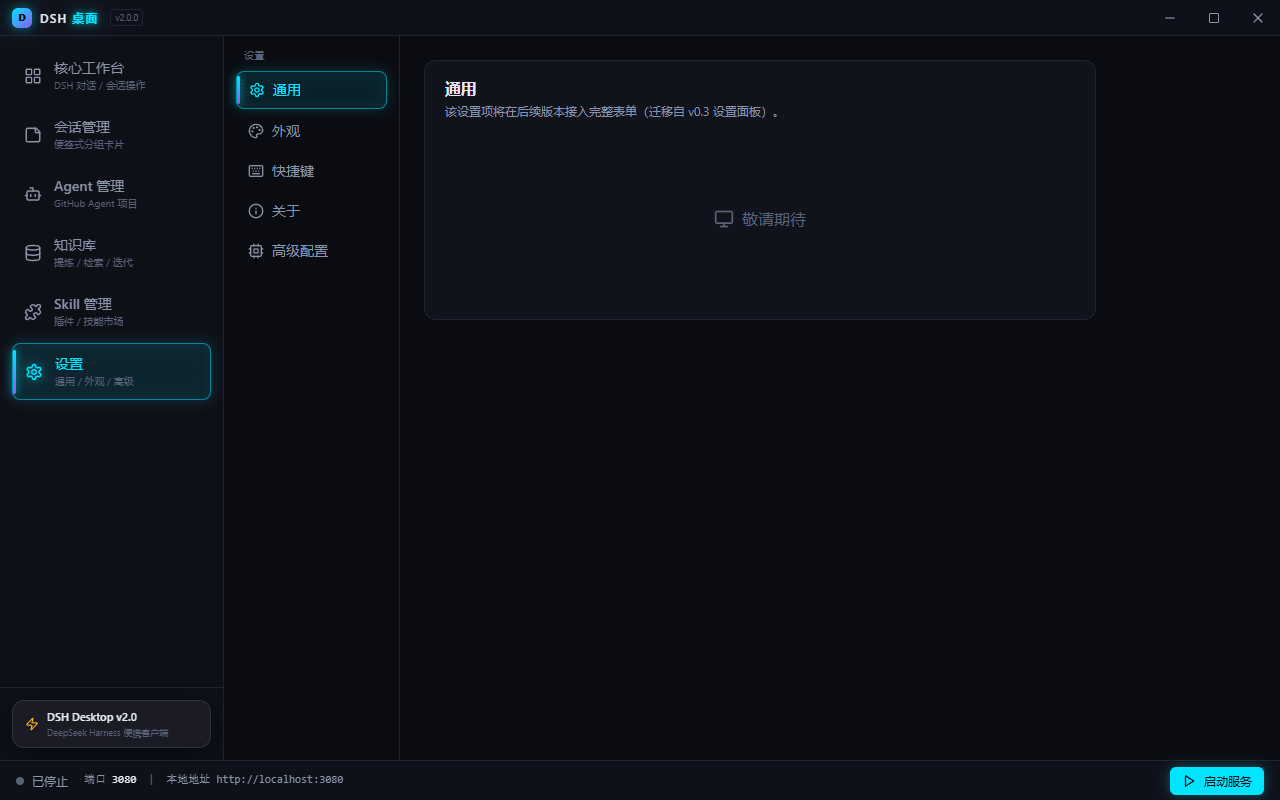
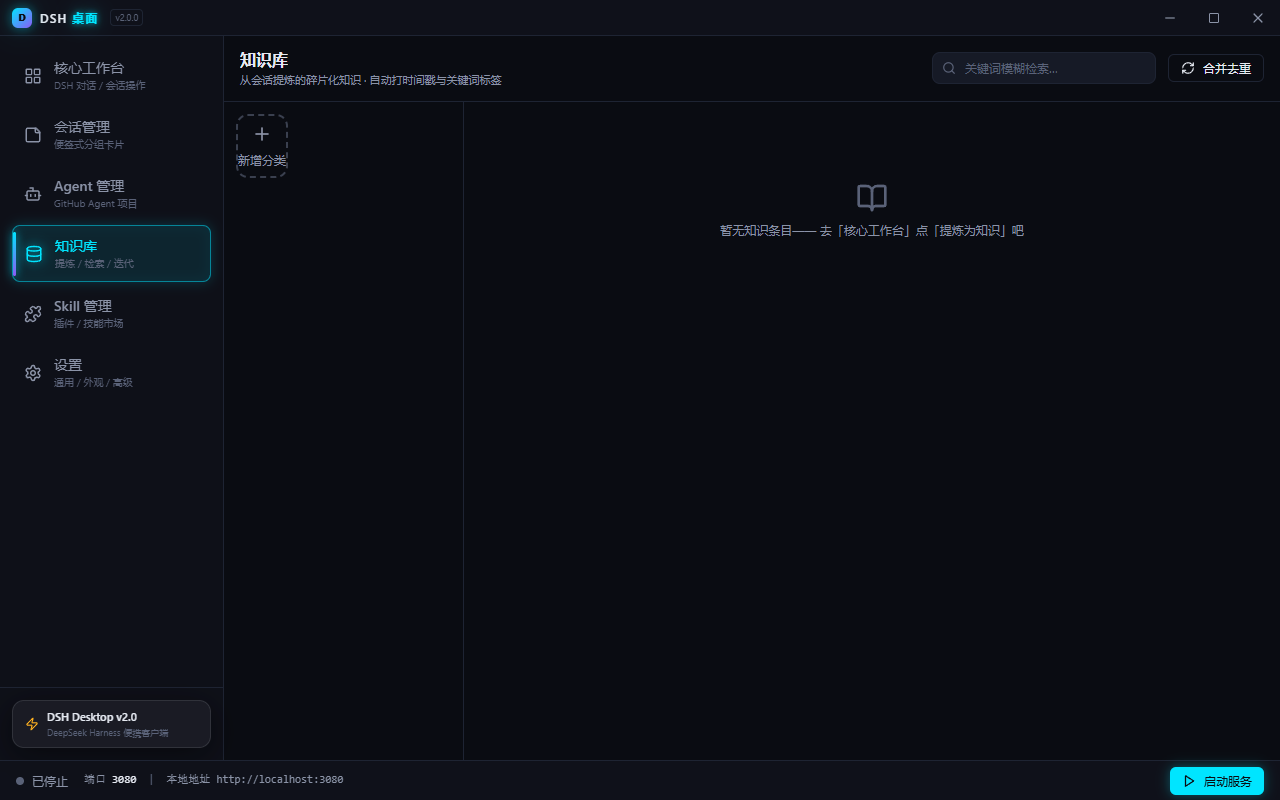
v2.0.0 release: packaged green build verified, README/CHANGELOG updated with screenshots
- 打包验证通过：pack:dir 构建 v2.0 绿色版（app/DSH 桌面.exe 215MB）+ CDP 实测布局/服务/webview/各模块 + 7 张真实截图
- README 全面重写为 v2.0（React 赛博朋克 UI + 6 大模块 + 新截图 + 下载指引）
- CHANGELOG 新增 2.0.0 条目（重构/新增/修复/质量）
- flatten-build.mjs 支持全新 app 目录平铺
- 生成 DSH-Desktop-v2.0.0-win.zip（138MB）
- typecheck 全绿，189 测试通过

diff --git a/README.md b/README.md
@@ -1,25 +1,25 @@
 <div align="center">
 
-# 🚀 DSH 桌面
+# 🚀 DSH 桌面 v2.0
 
 **把 DeepSeek Harness 装进一个文件夹 —— 双击即用 · 拷贝即迁移 · 零安装、零残留**
 
-> DeepSeek Harness（`@deepseek-ai/dsh`）的便携式 Windows 桌面客户端，
-> 全中文界面，无需一行命令，打开就能聊。
+> DeepSeek Harness（`@deepseek-ai/dsh`）的便携式 Windows 桌面客户端
+> React + 赛博朋克 UI · 全中文界面 · 无需一行命令
 
-[![版本](https://img.shields.io/badge/版本-v0.3.0-1E2A78)](https://github.com/gyg9006/DSH-Desktop/releases)
+[![版本](https://img.shields.io/badge/版本-v2.0.0-1E2A78)](https://github.com/gyg9006/DSH-Desktop/releases)
 [![平台](https://img.shields.io/badge/平台-Windows%2010%2F11-lightgrey)]()
-[![Electron](https://img.shields.io/badge/Electron-43.4-47848F)]()
-[![Vue](https://img.shields.io/badge/Vue-3.5-42b883)]()
+[![React](https://img.shields.io/badge/React-19-61DAFB)]()
 [![TypeScript](https://img.shields.io/badge/TypeScript-5.9-3178c6)]()
-[![测试](https://img.shields.io/badge/Tests-181%20passed-brightgreen)]()
+[![Electron](https://img.shields.io/badge/Electron-43.4-47848F)]()
+[![测试](https://img.shields.io/badge/Tests-189%20passed-brightgreen)]()
 [![License](https://img.shields.io/badge/License-MIT-green)](./LICENSE)
 
 ## 📥 立即下载
 
-**👉 [GitHub Releases 下载 v0.3.0（绿色便携版）](https://github.com/gyg9006/DSH-Desktop/releases)**
+**👉 [GitHub Releases 下载 v2.0.0（绿色便携版）](https://github.com/gyg9006/DSH-Desktop/releases)**
 
-- 下载 `DSH-Desktop-v0.3.0-win.zip`，解压后双击「启动 DSH 桌面.bat」即可开始使用；
+- 下载 `DSH-Desktop-v2.0.0-win.zip`，解压后双击「启动 DSH 桌面.bat」即可使用；
 - 内置便携 Node / Git / dsh 运行环境，**电脑上什么都不用装**；
 - 支持应用内**自动更新**（每 6 小时检测 GitHub Releases 新版本，一键升级）。
 
@@ -29,43 +29,42 @@
 
 ## 📸 先看一眼
 
-| 主界面（侧边栏 + 内嵌 dsh 对话） | 插件与技能（联网搜索） |
+| 主界面（内嵌 dsh 对话） | 会话管理（便签卡片） |
 |:---:|:---:|
-| ![主界面](screenshots/main.png) | ![插件与技能](screenshots/plugins-skills.png) |
-| **已安装（插件 + 技能一目了然）** | **关于（版本与更新）** |
-| ![已安装](screenshots/plugins-installed.png) | ![关于](screenshots/about.png) |
-| **环境检测（一键安装缺失项）** | **服务与运行（端口 / 自启 / 托盘）** |
-| ![环境检测](screenshots/settings-env.png) | ![服务与运行](screenshots/settings-service.png) |
-| **工作文件夹（拷贝即迁移）** | **备份与恢复（自动备份）** |
-| ![工作文件夹](screenshots/settings-workspace.png) | ![备份与恢复](screenshots/settings-backup.png) |
-| **异地同步（A/B 电脑）** | |
-| ![异地同步](screenshots/settings-sync.png) | |
+| ![主界面](screenshots/v2-main.png) | ![会话管理](screenshots/v2-sessions.png) |
+| **Agent 管理（GitHub 导入）** | **知识库（提炼 / 检索 / 迭代）** |
+| ![Agent 管理](screenshots/v2-agents.png) | ![知识库](screenshots/v2-knowledge.png) |
+| **Skill 管理（插件 / 技能市场）** | **设置（子菜单布局）** |
+| ![Skill 管理](screenshots/v2-skills.png) | ![设置](screenshots/v2-settings.png) |
+| **高级配置（环境 / API / 备份 / 同步）** | |
+| ![高级配置](screenshots/v2-settings-advanced.png) | |
 
 ---
 
 ## ✨ 为什么值得下载
 
 ### 🟢 一个文件夹 = 你的整个工作台
-- **绿色免安装**：Node / Git / dsh 全部内置在文件夹里，双击即用，不需要命令行、不需要管理员权限、不写注册表、不污染 `%APPDATA%`；
-- **拷贝即迁移**：把整个文件夹拷到 U 盘 / 网盘 / 局域网，换任何一台 Win10/Win11 电脑继续用 —— 对话记录、技能、插件、API 配置原样带过去，dsh 自动修复内部依赖，数据零丢失。
+- **绿色免安装**：Node / Git / dsh 全部内置，双击即用，不写注册表、不污染 `%APPDATA%`；
+- **拷贝即迁移**：整个文件夹拷到任意 Win10/Win11 电脑继续用 —— 对话、技能、插件、API 配置原样带过去。
 
-### 💬 开箱即聊，真实 dsh
-- 一键启动真实 DeepSeek Harness 服务（端口自动探测、被占用自动顺延），内嵌官方 Web 界面直接对话；
-- 模型与 API：填入 DeepSeek API Key 即自动写入 dsh 配置并热重载，无需重复配置。
+### 🛰 赛博朋克工作台
+- 自定义无边框标题栏、霓虹流光侧边栏、玻璃拟态面板、Canvas 粒子欢迎页；
+- 底部状态栏实时显示 dsh 端口 / 本地地址 / 运行状态灯，一键启停服务。
 
-### 🧩 插件与技能，联网一键安装
-- **功能插件**：内置推荐插件一键启用/停用，还支持按名字或功能词**联网搜索** npm 插件直接安装；
-- **推荐技能**：50 个精选开源技能（含 Anthropic 官方技能、obra/superpowers 等），并支持**联网搜索**任意 npm 技能包，装进 `workspace/skills` 立即在对话中使用。
+### 💬 开箱即聊
+- 内嵌真实 DeepSeek Harness Web 界面直接对话；填入 API Key 自动同步 dsh 配置并热重载。
 
-### 🗂 强大的会话管理
-- 会话**重命名 / 分叉 / 归档 / 收藏 / 分组 / 批量删除**，归档按年月日归档可搜索还原；
-- **导入会话**：文件夹 / 单个会话 / zip / tar 压缩包，导入自动解压、自动修复编码；
-- **异地同步**：A/B 两台电脑基于 Git 同步全部会话。
+### 🧩 六大功能模块
+1. **核心工作台**：内嵌 dsh 对话 + 会话导入（文件夹/文件）+ 「提炼为知识」一键入库；
+2. **会话管理**：便签式分组卡片，会话重命名 / 收藏 / 移动 / 导出 / 删除；
+3. **Agent 管理**：GitHub URL 导入 Agent 项目，运行与多 Agent 协同；
+4. **知识库**：从会话提炼碎片化知识，自动打时间戳与关键词标签，支持检索与合并去重迭代；
+5. **Skill 管理**：插件 / 技能双市场，联网搜索安装，🔥 前 10 推荐，已安装双列管理；
+6. **设置**：通用（语言/预设）、外观（主题）、快捷键、关于、高级配置（环境/API/服务/备份/同步）。
 
 ### 🛟 数据安全
-- 一键备份（每日 / 每周自动滚动）、恢复、出厂重置；
-- 一键迁移本机已有的 dsh 存量数据（对话 / 技能 / 设置 / 凭据）；
-- 应用内自动 / 手动更新，更新包走 GitHub Releases。
+- 一键备份 / 自动备份（每天每周 + 滚动保留）/ 恢复 / 出厂重置；
+- A/B 电脑 Git 异地同步；应用内自动 / 手动更新。
 
 ---
 
@@ -73,17 +72,14 @@
 
 | 模块 | 能力 |
 |---|---|
-| **环境检测** | Node / npm / pnpm / Git / dsh 五项检测，缺失项一键安装到工作文件夹 |
-| **服务与运行** | 一键启停、端口自动顺延、启动超时配置、开机自启、系统托盘常驻 |
-| **模型与 API** | API Key 管理（密码框）、自定义 Base URL、模型发现、测试连接，自动同步 dsh |
-| **会话管理** | 分组 / 归档 / 收藏 / 重命名 / 分叉 / 移动 / 批量删除 / 导入导出 |
-| **插件** | 内置推荐插件 + 联网搜索 npm 插件（按名字/功能词）一键安装卸载 |
-| **技能** | 50 个精选技能 + 联网搜索 npm 技能包，一键安装到 workspace/skills |
-| **备份恢复** | 一键备份 / 自动备份（每天每周 + 滚动保留）/ 导出 zip / 恢复 |
-| **异地同步** | 基于 Git 的 A/B 电脑会话同步（上传 / 下载 / 对齐删除） |
-| **通用设置** | 语言（中/英）、深色/浅色/跟随系统、Agent 预设，热同步 dsh |
-| **日志与初始化** | 应用 / dsh 日志查看、过滤、导出、清空；出厂重置 |
-| **关于与更新** | 客户端 / dsh / Node / Git 版本一目了然，自动或手动更新 |
+| **核心工作台** | webview 嵌入 dsh 对话、会话导入（文件夹/文件/压缩包）、知识提炼 |
+| **会话管理** | 便签分组卡片、重命名/收藏/移动/导出/删除、返回工作区 |
+| **Agent 管理** | GitHub 项目导入、卡片状态、运行日志、多选协同工作 |
+| **知识库** | 分类网格、条目 CRUD、关键词/分类检索、启发式提炼、合并去重 |
+| **Skill 管理** | 插件市场/技能市场（联网搜索 + 分页 + 推荐标记）、已安装双列管理 |
+| **设置** | 通用/外观/快捷键/关于/高级配置（环境检测、API、服务、备份、同步） |
+| **环境** | Node / npm / pnpm / Git / dsh 一键检测与安装 |
+| **更新** | 自动（每 6 小时）/ 手动检查 GitHub Releases，一键升级 |
 
 **快捷键**：`Ctrl+B` 收起/展开侧边栏 · `Ctrl+N` 新建对话 · `Ctrl+,` 打开设置
 
@@ -106,9 +102,9 @@ DSH-Desktop/
 ```
 
 1. 解压后双击「启动 DSH 桌面.bat」；
-2. 首次启动三步向导：确认工作文件夹 → 环境检测（已内置，无需安装）→ 完成；
-3. 「设置 → 模型与 API」填入 DeepSeek API Key → 保存 → 测试连接；
-4. 点「开始对话」，服务自动拉起，开始使用。
+2. 底部状态栏点「启动服务」，自动拉起 dsh；
+3. 「设置 → 高级配置」填入 DeepSeek API Key → 测试连接；
+4. 到「核心工作台」开始对话，聊完点「提炼为知识」沉淀到知识库。
 
 > 💡 换机：整个文件夹拷过去即可，无需重新安装任何东西。
 
@@ -118,7 +114,7 @@ DSH-Desktop/
 # 环境要求：Node.js ≥ 18（实测 v24 正常）
 npm install
 npm run dev          # 开发模式（热更新）
-npm test             # 单元测试（181 项）
+npm test             # 单元测试（189 项）
 npm run pack:dir     # 打包为绿色目录（输出到 ../DSH-Desktop/app）
 ```
 
@@ -128,22 +124,26 @@ npm run pack:dir     # 打包为绿色目录（输出到 ../DSH-Desktop/app）
 
 | 层 | 技术 |
 |---|---|
-| 桌面框架 | Electron 43 + electron-vite 5 + electron-builder 26 |
-| 前端 | Vue 3.5 + Pinia + Element Plus + Tailwind CSS（深色模式） |
-| 语言 | TypeScript 5.9（主进程 / preload / 渲染层全类型） |
-| 测试 | Vitest（181 项单测，主进程纯逻辑 + 共享层） |
+| 桌面框架 | Electron 43（无边框窗口）+ electron-vite 5 + electron-builder 26 |
+| 前端 | **React 19** + TypeScript 5.9 + Tailwind CSS（赛博朋克主题）+ shadcn 风格组件（Radix primitives） |
+| 状态/数据 | hooks + IPC 白名单桥（contextBridge，全类型定义） |
+| 测试 | Vitest（189 项，主进程纯逻辑 + 共享层） |
 | 运行时 | 便携 Node / Git / dsh（`@deepseek-ai/dsh`） |
 
 ```
 src/
-├── main/       主进程：配置 / 环境检测 / 安装器 / 迁移 / dsh 服务 / 会话 /
-│               API / 插件 / 技能市场 / 备份 / 同步 / 托盘 / 更新 / IPC
+├── main/       主进程：dsh 服务 / 会话 / 知识库 / Agent / 插件 / 技能市场 /
+│               API / 备份 / 同步 / 更新 / 迁移 / 窗口 / 托盘 / IPC
 ├── preload/    安全白名单 API（contextBridge）
-├── renderer/   Vue3 界面（侧边栏 / 对话 webview / 设置 10 Tab / 向导）
-└── shared/     主进程与渲染层共享的纯逻辑与类型（可单测）
+├── renderer/   React 19 界面
+│   └── src/
+│       ├── components/layout/   TitleBar / Sidebar / Footer
+│       ├── components/views/    6 大模块视图 + settings 子页
+│       ├── components/ui/       shadcn 风格组件（button/card/dialog/tabs/…）
+│       ├── hooks/               useDshService / useTheme
+│       └── lib/                 cn 工具 / appInfo
+└── shared/     主进程与渲染层共享的类型与纯逻辑
 ```
-
-> 关键技术：通过 `$DSH_HOME` 环境变量把全部 dsh 数据收敛到工作文件夹（`DSH_TELEMETRY_DISABLED=1` 关闭遥测）；Electron userData/sessionData/logs 在 ready 前重定向，实测零系统残留。
 
 ---
 
@@ -153,27 +153,22 @@ src/
 未签名应用的正常提示：点「更多信息 → 仍要运行」即可。程序不联网上传任何数据。
 
 **杀毒软件误报？**
-便携应用偶发误报，将整个文件夹加入白名单即可；如需彻底消除可用代码签名证书签名。
+便携应用偶发误报，将整个文件夹加入白名单即可。
 
 **端口被占用？**
-dsh 默认 3080，应用自动探测并在占用时顺延到下一可用端口；也可在「设置 → 服务与运行」手动固定。
+dsh 默认 3080，应用自动探测并在占用时顺延；也可在「设置 → 高级配置 → 服务与运行」固定端口。
 
-**换机后 dsh 提示异常？**
-首次启动会自动重建内部依赖链接（自愈）；若仍未生效，删除 `$DSH_HOME/profiles/node_modules` 后重启服务。
-
-**备份恢复后需要做什么？**
-备份不含运行环境（体积大且机器相关），换机恢复后重新执行一次「环境检测 → 一键安装缺失项」即可，数据无损。
+**知识库如何补充？**
+在「核心工作台」点「提炼为知识」，粘贴会话内容即可自动提取代码片段与经验段落（生产环境可接入 LLM 提炼技能）。
 
 ---
 
 ## 🗺 里程碑
 
-| 里程碑 | 内容 | 状态 |
-|---|---|---|
-| M1~M7 | 12 节规格全部落地：环境检测、一键安装、迁移、服务生命周期、会话管理、打包便携验证、错误处理加固 | ✅ |
-| R2~R9 | 迭代增强：会话组织（分组/归档/收藏/批量）、导入会话、异地同步、插件与技能市场、API 双向同步、视图分组排序、中文路径加固 | ✅ |
-| v0.2.0 | 应用内版本更新（自动/手动）、YAML 往返修复、关闭窗口修复、服务超时修复 | ✅ |
-| v0.3.0 | 插件/技能**联网搜索**（按名字/功能词）、设置拆分（日志与初始化 / 关于）、已安装双列表 | ✅ |
+| 版本 | 内容 |
+|---|---|
+| v0.1~0.3 | 12 节规格落地：环境检测、会话管理、插件/技能市场、备份同步、自动更新（Vue 版） |
+| **v2.0** | **React 19 + 赛博朋克 UI 全面重构**：无边框标题栏、6 入口侧边栏、粒子欢迎页、核心工作台（知识提炼）、会话卡片视图、Agent 管理、知识库、Skill 管理、设置子菜单 |
 
 ---
 

diff --git a/CHANGELOG.md b/CHANGELOG.md
@@ -4,6 +4,32 @@
 格式遵循 [Keep a Changelog](https://keepachangelog.com/zh-CN/1.1.0/)，
 版本号遵循 [语义化版本](https://semver.org/lang/zh-CN/)。
 
+## [2.0.0] - 2026-08-17
+
+### 重构
+
+- **渲染层整体迁移 Vue → React 19**：TypeScript + Tailwind CSS + shadcn 风格组件（Radix primitives：button / card / input / dialog / tabs / switch / badge / pagination 等），全类型 IPC 桥保持不变。
+- **赛博朋克 / 科技感深色 UI**：自定义无边框标题栏（frame:false + 窗口控制 IPC）、6 入口侧边栏（霓虹流光选中态）、底部状态栏（端口 / 本地地址 / 状态灯 + 服务启停）、Canvas 粒子欢迎页、玻璃拟态面板、数据流动画与扫描线。
+
+### 新增（6 大功能模块）
+
+1. **核心工作台**：webview 嵌入完整 DSH Web 界面；会话导入（文件夹 / 文件）；「提炼为知识」对话框（启发式提取 → 知识库，无分类引导新建）。
+2. **会话管理**：便签式分组卡片网格（[+新增分组] 虚线卡 + 分组重命名/删除/置顶）；分组详情会话列表（重命名 / 收藏 / 移动到组 / 返回工作区 / 导出 / 删除）。
+3. **Agent 管理**：GitHub URL 导入（自动拉取仓库信息）；卡片状态徽章；运行（日志弹窗）；多选「协同工作」（并行日志流骨架）。
+4. **知识库**：分类网格（条目计数 + 数据流动画）；知识条目 CRUD（自动时间戳 + 关键词标签）；关键词 / 分类检索；合并去重迭代；SkillAdapter 接口（启发式 Mock，生产可接 LLM）。
+5. **Skill 管理**：Tabs [插件市场] [技能市场] [已安装]；联网搜索（按名字/功能词）；🔥 前 10 推荐标记；每页 10 项分页器；已安装插件 / 技能双列管理。
+6. **设置**：左侧子菜单 + 右侧表单——通用（语言 / Agent 预设）、外观（主题深/浅/跟随系统）、快捷键、关于（版本 + 更新）、高级配置（环境检测 / 模型与 API / 服务与运行 / 自动备份 / 异地同步）。
+
+### 修复
+
+- Electron 不支持 `window.prompt()`：知识库分类创建/重命名、Agent 重命名改为 Dialog 输入框。
+- 打包平铺脚本支持全新 app 目录（仅含 win-unpacked / builder 辅助文件）。
+
+### 质量
+
+- 主进程新增 `knowledge.ts` / `agents.ts` 模块与 13 个新 IPC 通道（含 12 项新单元测试）。
+- 单元测试 **189 项**全部通过；typecheck（node + web）全绿；electron-vite 构建 + electron-builder 打包验证通过；打包产物 CDP 实测（布局 / 服务 / webview / 各模块）。
+
 ## [0.3.0] - 2026-08-16
 
 ### 新增
